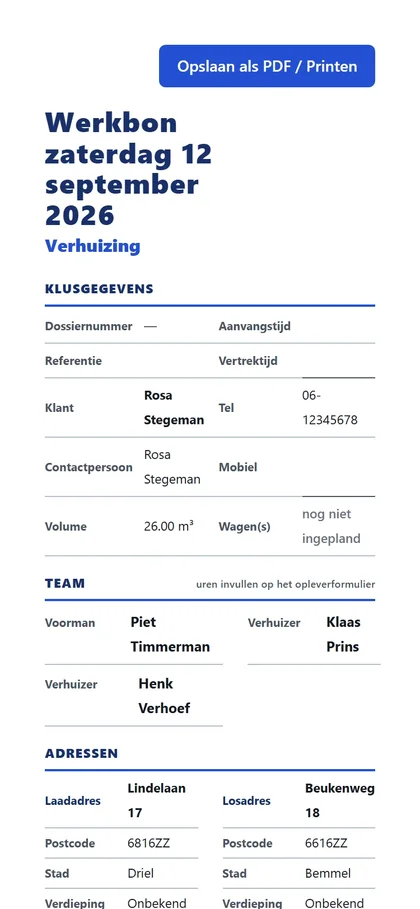
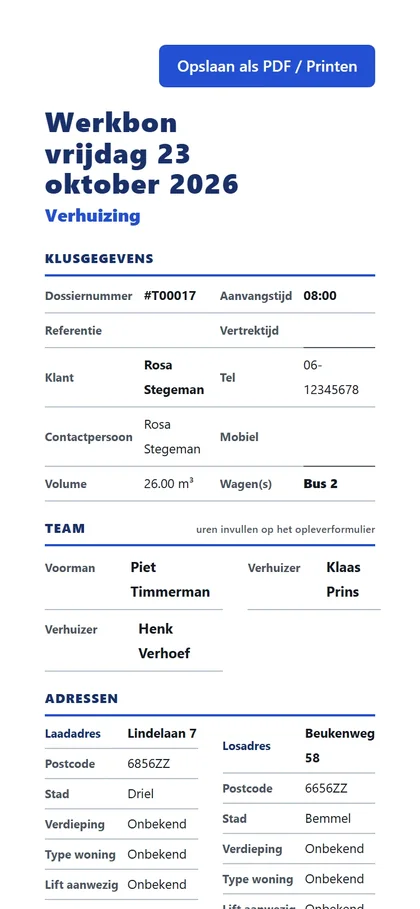
Ontwerp herstart: MoveFlow-schermen v2, galerij met planning en offerte, cockpit zonder modelnaam
- Nieuwe MoveFlow-schermen van Jacob (dossier, offerte, werkbon, kloppend verhaal op nepdata)
- Portfolio en pijler Apps: MoveFlow toont dossier, planning en offerte (wisselen vanzelf, tikken op mobiel) plus werkbon op telefoon
- Home: MoveFlow-kaart rustig met 1 beeld
- Cockpit-scherm: modelkeuze neutraal "AI-assistent"

Changed region(s): [[0.0929, 0.154, 0.8976, 1.0]]

diff --git a/ontwerp/apps.html b/ontwerp/apps.html
@@ -11,7 +11,7 @@
 <link rel="preconnect" href="https://fonts.googleapis.com" />
 <link rel="preconnect" href="https://fonts.gstatic.com" crossorigin />
 <link href="https://fonts.googleapis.com/css2?family=Geist:wght@400;500;600;700;800&family=Geist+Mono:wght@400;500;700&family=Instrument+Serif:ital@0;1&display=swap" rel="stylesheet" />
-<link rel="stylesheet" href="/ontwerp/ontwerp.css?v=4" />
+<link rel="stylesheet" href="/ontwerp/ontwerp.css?v=5" />
 <script>document.documentElement.classList.add('js')</script>
 </head>
 <body class="notes-uit">
@@ -52,7 +52,7 @@
 <section class="sectie smal" id="werk"><div class="wrap">
   <div class="sectie-kop"><div><div class="label">Voorbeelden</div><h2 style="margin-top:12px">Zo ziet dat er <span class="serif">in het echt uit.</span></h2></div><a class="knop-2" href="/ontwerp/portfolio#apps">Heel het portfolio →</a></div>
   <div class="cases"><article class="case verhaal-case" data-pijler="apps" data-reveal>
-  <div class="beeld"><img src="/ontwerp/img/moveflow-d.webp" alt="MoveFlow met nepdata: een verhuisdossier met de stappen van aanvraag tot afgerond" decoding="async" loading="lazy" /><div class="mini"><img src="/ontwerp/img/moveflow-m.webp" alt="" decoding="async" loading="lazy" /></div></div>
+  <div class="beeld galerij" data-galerij><img class="g-beeld aan" src="/ontwerp/img/moveflow-d.webp" alt="MoveFlow met nepdata: een verhuisdossier met de stappen van aanvraag tot afgerond" decoding="async" loading="lazy" /><img class="g-beeld" src="/ontwerp/img/moveflow-planning-d.webp" alt="MoveFlow met nepdata: de weekplanning met verhuizingen en taxaties" decoding="async" loading="lazy" /><img class="g-beeld" src="/ontwerp/img/moveflow-offerte-d.webp" alt="MoveFlow met nepdata: een offerte die de klant online accepteerde" decoding="async" loading="lazy" /><div class="mini"><img src="/ontwerp/img/moveflow-m.webp" alt="" decoding="async" loading="lazy" /></div><div class="g-knoppen"><button type="button" class="aan" data-i="0" aria-label="Toon scherm Dossier">Dossier</button><button type="button" data-i="1" aria-label="Toon scherm Planning">Planning</button><button type="button" data-i="2" aria-label="Toon scherm Offerte">Offerte</button></div></div>
   <div class="verhaal" id="v-moveflow-16">
     <div><small>01 · Het probleem</small><p>Bij een verhuisbedrijf hangt alles aan elkaar: de aanvraag, de offerte, de planning en de bon voor de ploeg. Staat dat in losse lijsten, dan typ je alles drie keer over.</p></div>
     <div><small>02 · Wat we bouwden</small><p>MoveFlow, gebouwd voor Jacobs Heteren: offertes met een rekenmotor, planning en werkbonnen, en per verhuizing één dossier met alles erin.</p></div>
@@ -204,6 +204,6 @@
   <div class="klein-tekst"><span>AP Digital · KVK 42080619 · Arnhem</span><span>Ontwerp 2026-11-05</span></div>
 </div></footer>
 <div class="vast-cta"><a class="knop" href="/ontwerp/kennismaking">Gratis kennismaking</a><a class="knop-2" href="tel:+31614160265" aria-label="Bellen">Bel</a></div>
-<script src="/ontwerp/ontwerp.js?v=2"></script>
+<script src="/ontwerp/ontwerp.js?v=3"></script>
 </body>
 </html>

diff --git a/ontwerp/portfolio.html b/ontwerp/portfolio.html
@@ -11,7 +11,7 @@
 <link rel="preconnect" href="https://fonts.googleapis.com" />
 <link rel="preconnect" href="https://fonts.gstatic.com" crossorigin />
 <link href="https://fonts.googleapis.com/css2?family=Geist:wght@400;500;600;700;800&family=Geist+Mono:wght@400;500;700&family=Instrument+Serif:ital@0;1&display=swap" rel="stylesheet" />
-<link rel="stylesheet" href="/ontwerp/ontwerp.css?v=4" />
+<link rel="stylesheet" href="/ontwerp/ontwerp.css?v=5" />
 <script>document.documentElement.classList.add('js')</script>
 </head>
 <body class="notes-uit">
@@ -138,7 +138,7 @@
   <section class="pijlerblok" id="apps" data-blok="apps">
     <div class="sectie-kop" style="margin-bottom:24px"><div><div class="label">Pijler 2 · Apps op maat</div><h2 style="margin-top:10px">Apps</h2></div><a class="knop-2" href="/ontwerp/apps">Over apps →</a></div>
     <div class="cases"><article class="case verhaal-case" data-pijler="apps" data-reveal>
-  <div class="beeld"><img src="/ontwerp/img/moveflow-d.webp" alt="MoveFlow met nepdata: een verhuisdossier met de stappen van aanvraag tot afgerond" decoding="async" loading="lazy" /><div class="mini"><img src="/ontwerp/img/moveflow-m.webp" alt="" decoding="async" loading="lazy" /></div></div>
+  <div class="beeld galerij" data-galerij><img class="g-beeld aan" src="/ontwerp/img/moveflow-d.webp" alt="MoveFlow met nepdata: een verhuisdossier met de stappen van aanvraag tot afgerond" decoding="async" loading="lazy" /><img class="g-beeld" src="/ontwerp/img/moveflow-planning-d.webp" alt="MoveFlow met nepdata: de weekplanning met verhuizingen en taxaties" decoding="async" loading="lazy" /><img class="g-beeld" src="/ontwerp/img/moveflow-offerte-d.webp" alt="MoveFlow met nepdata: een offerte die de klant online accepteerde" decoding="async" loading="lazy" /><div class="mini"><img src="/ontwerp/img/moveflow-m.webp" alt="" decoding="async" loading="lazy" /></div><div class="g-knoppen"><button type="button" class="aan" data-i="0" aria-label="Toon scherm Dossier">Dossier</button><button type="button" data-i="1" aria-label="Toon scherm Planning">Planning</button><button type="button" data-i="2" aria-label="Toon scherm Offerte">Offerte</button></div></div>
   <div class="verhaal" id="v-moveflow-7">
     <div><small>01 · Het probleem</small><p>Bij een verhuisbedrijf hangt alles aan elkaar: de aanvraag, de offerte, de planning en de bon voor de ploeg. Staat dat in losse lijsten, dan typ je alles drie keer over.</p></div>
     <div><small>02 · Wat we bouwden</small><p>MoveFlow, gebouwd voor Jacobs Heteren: offertes met een rekenmotor, planning en werkbonnen, en per verhuizing één dossier met alles erin.</p></div>
@@ -346,6 +346,6 @@
   <div class="klein-tekst"><span>AP Digital · KVK 42080619 · Arnhem</span><span>Ontwerp 2026-11-05</span></div>
 </div></footer>
 <div class="vast-cta"><a class="knop" href="/ontwerp/kennismaking">Gratis kennismaking</a><a class="knop-2" href="tel:+31614160265" aria-label="Bellen">Bel</a></div>
-<script src="/ontwerp/ontwerp.js?v=2"></script>
+<script src="/ontwerp/ontwerp.js?v=3"></script>
 </body>
 </html>

diff --git a/ontwerp/index.html b/ontwerp/index.html
@@ -11,7 +11,7 @@
 <link rel="preconnect" href="https://fonts.googleapis.com" />
 <link rel="preconnect" href="https://fonts.gstatic.com" crossorigin />
 <link href="https://fonts.googleapis.com/css2?family=Geist:wght@400;500;600;700;800&family=Geist+Mono:wght@400;500;700&family=Instrument+Serif:ital@0;1&display=swap" rel="stylesheet" />
-<link rel="stylesheet" href="/ontwerp/ontwerp.css?v=4" />
+<link rel="stylesheet" href="/ontwerp/ontwerp.css?v=5" />
 <script>document.documentElement.classList.add('js')</script>
 </head>
 <body class="notes-uit">
@@ -126,7 +126,7 @@
     <a class="link" href="https://www.flo-rent.nl/" target="_blank" rel="noopener">Bekijk de site ↗</a>
   </div>
 </article><article class="case verhaal-case" data-pijler="apps" data-reveal>
-  <div class="beeld"><img src="/ontwerp/img/moveflow-d.webp" alt="MoveFlow met nepdata: een verhuisdossier met de stappen van aanvraag tot afgerond" decoding="async" loading="lazy" /><div class="mini"><img src="/ontwerp/img/moveflow-m.webp" alt="" decoding="async" loading="lazy" /></div></div>
+  <div class="beeld"><img src="/ontwerp/img/moveflow-d.webp" alt="MoveFlow met nepdata: een verhuisdossier met de stappen van aanvraag tot afgerond" decoding="async" loading="lazy" /></div>
   <div class="verhaal" id="v-moveflow-2">
     <div><small>01 · Het probleem</small><p>Bij een verhuisbedrijf hangt alles aan elkaar: de aanvraag, de offerte, de planning en de bon voor de ploeg. Staat dat in losse lijsten, dan typ je alles drie keer over.</p></div>
     <div><small>02 · Wat we bouwden</small><p>MoveFlow, gebouwd voor Jacobs Heteren: offertes met een rekenmotor, planning en werkbonnen, en per verhuizing één dossier met alles erin.</p></div>
@@ -231,6 +231,6 @@
   <div class="klein-tekst"><span>AP Digital · KVK 42080619 · Arnhem</span><span>Ontwerp 2026-11-05</span></div>
 </div></footer>
 <div class="vast-cta"><a class="knop" href="/ontwerp/kennismaking">Gratis kennismaking</a><a class="knop-2" href="tel:+31614160265" aria-label="Bellen">Bel</a></div>
-<script src="/ontwerp/ontwerp.js?v=2"></script>
+<script src="/ontwerp/ontwerp.js?v=3"></script>
 </body>
 </html>

diff --git a/ontwerp/ontwerp.js b/ontwerp/ontwerp.js
@@ -91,6 +91,27 @@
     })
   })
 
+  // ---------- galerij: schermen wisselen vanzelf (niet bij hover, buiten beeld of reduced-motion) ----------
+  var rustigeBeweging = window.matchMedia && window.matchMedia('(prefers-reduced-motion: reduce)').matches
+  document.querySelectorAll('[data-galerij]').forEach(function (g) {
+    var beelden = g.querySelectorAll('.g-beeld'), knoppen = g.querySelectorAll('.g-knoppen button')
+    var nu = 0, klok = null, zichtbaar = false, hover = false
+    function toon(i) {
+      nu = (i + beelden.length) % beelden.length
+      beelden.forEach(function (b, j) { b.classList.toggle('aan', j === nu) })
+      knoppen.forEach(function (k, j) { k.classList.toggle('aan', j === nu); k.setAttribute('aria-pressed', j === nu ? 'true' : 'false') })
+    }
+    function stop() { if (klok) { clearInterval(klok); klok = null } }
+    function start() { stop(); if (!rustigeBeweging && zichtbaar && !hover) klok = setInterval(function () { toon(nu + 1) }, 3400) }
+    knoppen.forEach(function (k) { k.addEventListener('click', function (e) { e.stopPropagation(); toon(+k.dataset.i); start() }) })
+    var kaart = g.closest('.case') || g
+    kaart.addEventListener('mouseenter', function () { hover = true; stop() })
+    kaart.addEventListener('mouseleave', function () { hover = false; start() })
+    if ('IntersectionObserver' in window) {
+      new IntersectionObserver(function (es) { es.forEach(function (e) { zichtbaar = e.isIntersecting; zichtbaar ? start() : stop() }) }, { threshold: 0.4 }).observe(g)
+    }
+  })
+
   // ---------- hero-machine ----------
   var m = document.getElementById('machine')
   if (!m) return

diff --git a/ontwerp/ontwerp.css b/ontwerp/ontwerp.css
@@ -556,3 +556,15 @@ body.notes-uit .beeld .stempel-volgt { display: none; }
 .persoon-foto img { width: 100%; height: 100%; object-fit: cover; display: block; }
 .persoon p { margin: 0 0 14px; }
 @media (min-width: 861px) { .persoon.omgekeerd > :first-child { order: 2; } }
+
+/* Galerij (MoveFlow op portfolio en pijler Apps): meerdere schermen die wisselen */
+.case .beeld.galerij .g-beeld { position: absolute; inset: 0; opacity: 0; transition: opacity .7s ease, transform .5s; }
+.case .beeld.galerij .g-beeld.aan { opacity: 1; }
+.g-knoppen { position: absolute; left: 12px; bottom: 12px; z-index: 1; display: flex; gap: 6px; }
+.g-knoppen button { font-family: var(--mono); font-size: 10.5px; letter-spacing: .08em; text-transform: uppercase; color: var(--wit); background: rgba(10,10,10,.82); border: 1px solid var(--lijn-2); border-radius: 999px; padding: 6px 10px; cursor: pointer; -webkit-backdrop-filter: blur(6px); backdrop-filter: blur(6px); transition: background .25s, color .25s, border-color .25s; }
+.g-knoppen button.aan { background: var(--geel); color: var(--zwart); border-color: var(--geel); }
+.g-knoppen button:focus-visible { outline: 2px solid var(--geel); outline-offset: 2px; }
+@media (max-width: 480px) { .g-knoppen { left: 8px; bottom: 8px; gap: 4px; } .g-knoppen button { font-size: 9.5px; padding: 5px 8px; } }
+@media (prefers-reduced-motion: reduce) { .case .beeld.galerij .g-beeld { transition: none; } }
+/* Desktop: bij hover ligt het verhaal over het beeld, dus de knoppen zijn daar alleen een wijzer; tikken werkt op touch */
+@media (hover: hover) { .g-knoppen button { pointer-events: none; cursor: default; } }

diff --git a/ontwerp/automatisering.html b/ontwerp/automatisering.html
@@ -11,7 +11,7 @@
 <link rel="preconnect" href="https://fonts.googleapis.com" />
 <link rel="preconnect" href="https://fonts.gstatic.com" crossorigin />
 <link href="https://fonts.googleapis.com/css2?family=Geist:wght@400;500;600;700;800&family=Geist+Mono:wght@400;500;700&family=Instrument+Serif:ital@0;1&display=swap" rel="stylesheet" />
-<link rel="stylesheet" href="/ontwerp/ontwerp.css?v=4" />
+<link rel="stylesheet" href="/ontwerp/ontwerp.css?v=5" />
 <script>document.documentElement.classList.add('js')</script>
 </head>
 <body class="notes-uit">
@@ -176,6 +176,6 @@
   <div class="klein-tekst"><span>AP Digital · KVK 42080619 · Arnhem</span><span>Ontwerp 2026-11-05</span></div>
 </div></footer>
 <div class="vast-cta"><a class="knop" href="/ontwerp/kennismaking">Gratis kennismaking</a><a class="knop-2" href="tel:+31614160265" aria-label="Bellen">Bel</a></div>
-<script src="/ontwerp/ontwerp.js?v=2"></script>
+<script src="/ontwerp/ontwerp.js?v=3"></script>
 </body>
 </html>

diff --git a/ontwerp/websites.html b/ontwerp/websites.html
@@ -11,7 +11,7 @@
 <link rel="preconnect" href="https://fonts.googleapis.com" />
 <link rel="preconnect" href="https://fonts.gstatic.com" crossorigin />
 <link href="https://fonts.googleapis.com/css2?family=Geist:wght@400;500;600;700;800&family=Geist+Mono:wght@400;500;700&family=Instrument+Serif:ital@0;1&display=swap" rel="stylesheet" />
-<link rel="stylesheet" href="/ontwerp/ontwerp.css?v=4" />
+<link rel="stylesheet" href="/ontwerp/ontwerp.css?v=5" />
 <script>document.documentElement.classList.add('js')</script>
 </head>
 <body class="notes-uit">
@@ -201,6 +201,6 @@
   <div class="klein-tekst"><span>AP Digital · KVK 42080619 · Arnhem</span><span>Ontwerp 2026-11-05</span></div>
 </div></footer>
 <div class="vast-cta"><a class="knop" href="/ontwerp/kennismaking">Gratis kennismaking</a><a class="knop-2" href="tel:+31614160265" aria-label="Bellen">Bel</a></div>
-<script src="/ontwerp/ontwerp.js?v=2"></script>
+<script src="/ontwerp/ontwerp.js?v=3"></script>
 </body>
 </html>

diff --git a/ontwerp/doorlichting.html b/ontwerp/doorlichting.html
@@ -11,7 +11,7 @@
 <link rel="preconnect" href="https://fonts.googleapis.com" />
 <link rel="preconnect" href="https://fonts.gstatic.com" crossorigin />
 <link href="https://fonts.googleapis.com/css2?family=Geist:wght@400;500;600;700;800&family=Geist+Mono:wght@400;500;700&family=Instrument+Serif:ital@0;1&display=swap" rel="stylesheet" />
-<link rel="stylesheet" href="/ontwerp/ontwerp.css?v=4" />
+<link rel="stylesheet" href="/ontwerp/ontwerp.css?v=5" />
 <script>document.documentElement.classList.add('js')</script>
 </head>
 <body class="notes-uit">
@@ -67,6 +67,6 @@
   <div class="klein-tekst"><span>AP Digital · KVK 42080619 · Arnhem</span><span>Ontwerp 2026-11-05</span></div>
 </div></footer>
 <div class="vast-cta"><a class="knop" href="/ontwerp/kennismaking">Gratis kennismaking</a><a class="knop-2" href="tel:+31614160265" aria-label="Bellen">Bel</a></div>
-<script src="/ontwerp/ontwerp.js?v=2"></script>
+<script src="/ontwerp/ontwerp.js?v=3"></script>
 </body>
 </html>

diff --git a/ontwerp/gratis-concept.html b/ontwerp/gratis-concept.html
@@ -11,7 +11,7 @@
 <link rel="preconnect" href="https://fonts.googleapis.com" />
 <link rel="preconnect" href="https://fonts.gstatic.com" crossorigin />
 <link href="https://fonts.googleapis.com/css2?family=Geist:wght@400;500;600;700;800&family=Geist+Mono:wght@400;500;700&family=Instrument+Serif:ital@0;1&display=swap" rel="stylesheet" />
-<link rel="stylesheet" href="/ontwerp/ontwerp.css?v=4" />
+<link rel="stylesheet" href="/ontwerp/ontwerp.css?v=5" />
 <script>document.documentElement.classList.add('js')</script>
 </head>
 <body class="notes-uit">
@@ -79,6 +79,6 @@
   <div class="klein-tekst"><span>AP Digital · KVK 42080619 · Arnhem</span><span>Ontwerp 2026-11-05</span></div>
 </div></footer>
 <div class="vast-cta"><a class="knop" href="/ontwerp/kennismaking">Gratis kennismaking</a><a class="knop-2" href="tel:+31614160265" aria-label="Bellen">Bel</a></div>
-<script src="/ontwerp/ontwerp.js?v=2"></script>
+<script src="/ontwerp/ontwerp.js?v=3"></script>
 </body>
 </html>

diff --git a/ontwerp/kennismaking.html b/ontwerp/kennismaking.html
@@ -11,7 +11,7 @@
 <link rel="preconnect" href="https://fonts.googleapis.com" />
 <link rel="preconnect" href="https://fonts.gstatic.com" crossorigin />
 <link href="https://fonts.googleapis.com/css2?family=Geist:wght@400;500;600;700;800&family=Geist+Mono:wght@400;500;700&family=Instrument+Serif:ital@0;1&display=swap" rel="stylesheet" />
-<link rel="stylesheet" href="/ontwerp/ontwerp.css?v=4" />
+<link rel="stylesheet" href="/ontwerp/ontwerp.css?v=5" />
 <script>document.documentElement.classList.add('js')</script>
 </head>
 <body class="notes-uit">
@@ -68,6 +68,6 @@
   <div class="klein-tekst"><span>AP Digital · KVK 42080619 · Arnhem</span><span>Ontwerp 2026-11-05</span></div>
 </div></footer>
 <div class="vast-cta"><a class="knop" href="/ontwerp/kennismaking">Gratis kennismaking</a><a class="knop-2" href="tel:+31614160265" aria-label="Bellen">Bel</a></div>
-<script src="/ontwerp/ontwerp.js?v=2"></script>
+<script src="/ontwerp/ontwerp.js?v=3"></script>
 </body>
 </html>

diff --git a/ontwerp/over.html b/ontwerp/over.html
@@ -11,7 +11,7 @@
 <link rel="preconnect" href="https://fonts.googleapis.com" />
 <link rel="preconnect" href="https://fonts.gstatic.com" crossorigin />
 <link href="https://fonts.googleapis.com/css2?family=Geist:wght@400;500;600;700;800&family=Geist+Mono:wght@400;500;700&family=Instrument+Serif:ital@0;1&display=swap" rel="stylesheet" />
-<link rel="stylesheet" href="/ontwerp/ontwerp.css?v=4" />
+<link rel="stylesheet" href="/ontwerp/ontwerp.css?v=5" />
 <script>document.documentElement.classList.add('js')</script>
 </head>
 <body class="notes-uit">
@@ -71,6 +71,6 @@
   <div class="klein-tekst"><span>AP Digital · KVK 42080619 · Arnhem</span><span>Ontwerp 2026-11-05</span></div>
 </div></footer>
 <div class="vast-cta"><a class="knop" href="/ontwerp/kennismaking">Gratis kennismaking</a><a class="knop-2" href="tel:+31614160265" aria-label="Bellen">Bel</a></div>
-<script src="/ontwerp/ontwerp.js?v=2"></script>
+<script src="/ontwerp/ontwerp.js?v=3"></script>
 </body>
 </html>
